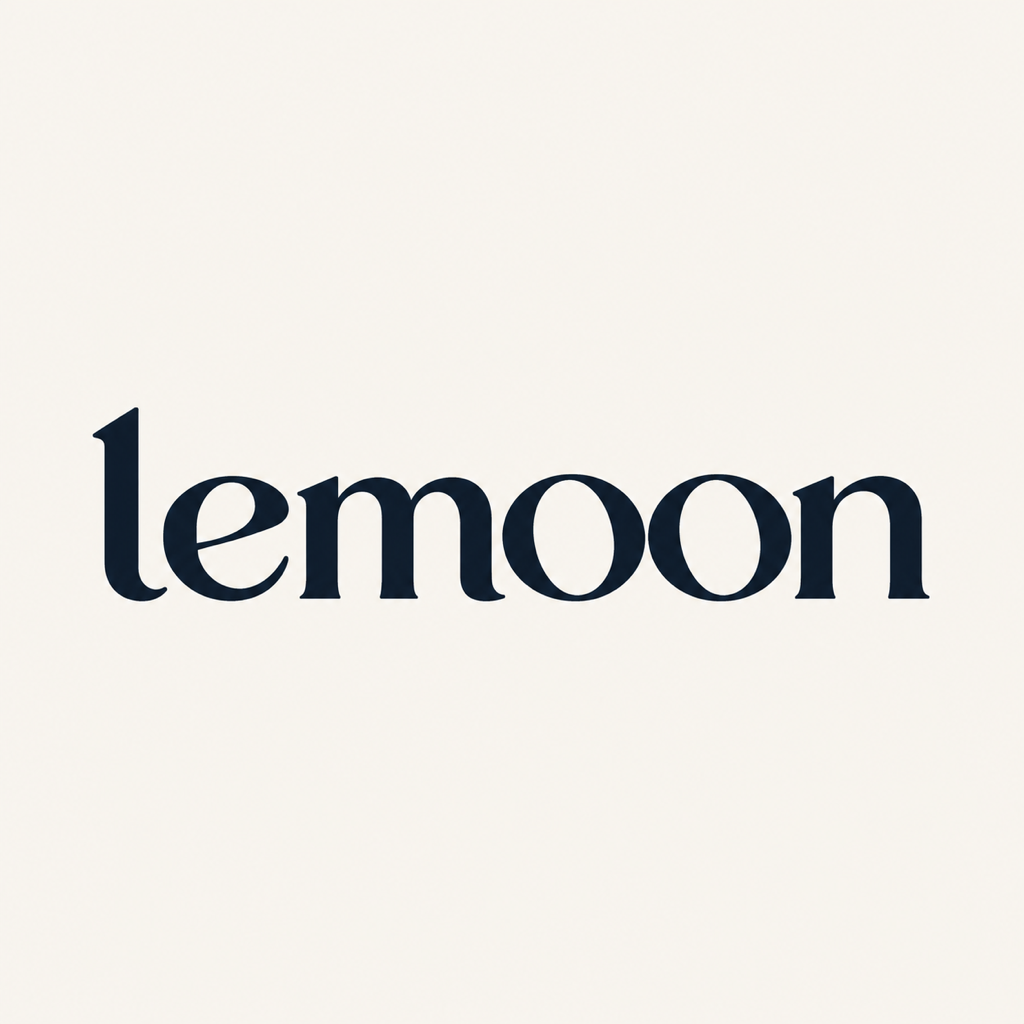
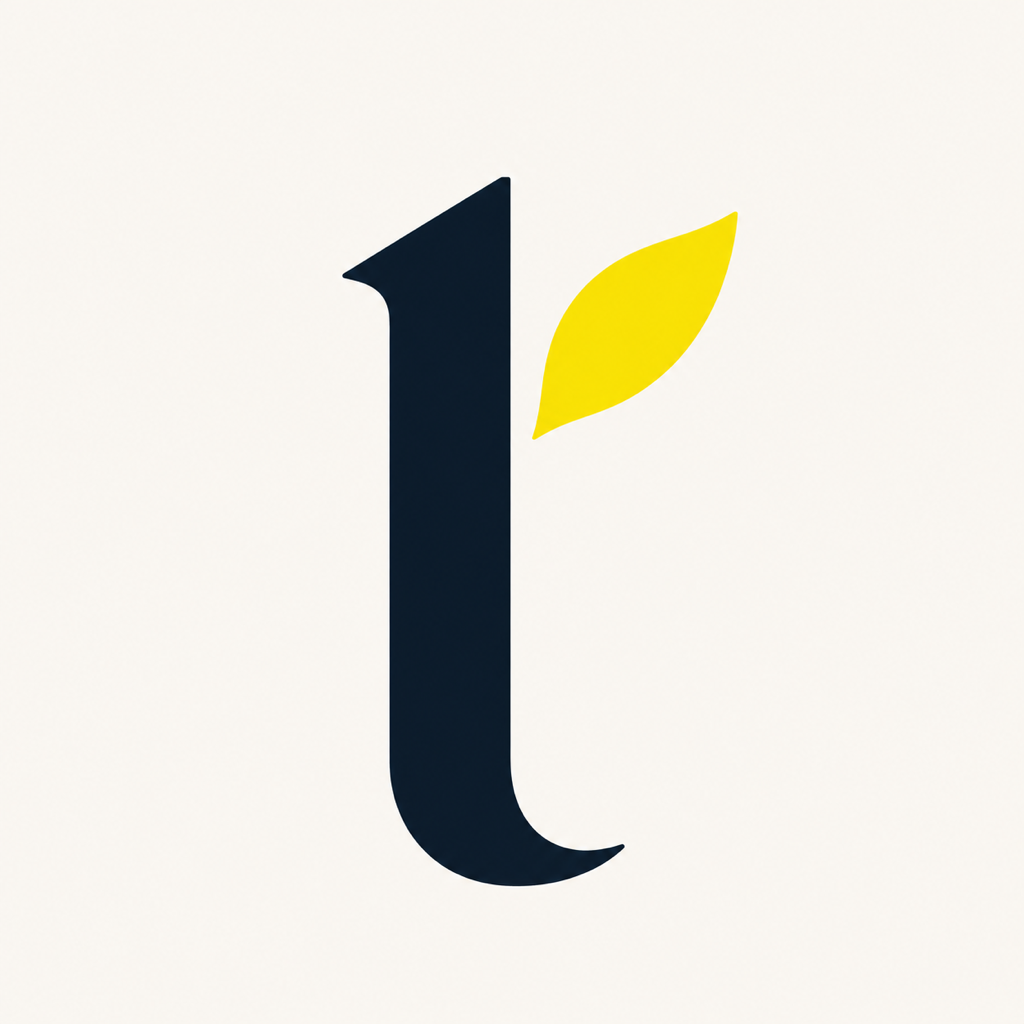
feat: use l and yellow leaf for social profile images

Changed region(s): [[0.0938, 0.1562, 0.9062, 0.875], [0.6875, 0.4375, 0.7188, 0.4688]]

diff --git a/docs/design/assets/lem-97/README.md b/docs/design/assets/lem-97/README.md
@@ -12,8 +12,8 @@ Las miniaturas enlazan los archivos optimizados de `assets/`. Los bytes correspo
 | H02-S · Sol<br><img src="../../../../assets/lemoon-category-sol-generic-v1.jpg" width="240" alt="Lentes de sol carey y azul sobre una superficie clara."> | [lemoon-category-sol-generic-v1.jpg](../../../../assets/lemoon-category-sol-generic-v1.jpg) | 1402×1122 | 312,799 | Lentes de sol carey y azul sobre una superficie clara. |
 | H02-A · Accesorios<br><img src="../../../../assets/lemoon-category-accesorios-generic-v1.jpg" width="240" alt="Estuche azul, paño beige y cordón para lentes."> | [lemoon-category-accesorios-generic-v1.jpg](../../../../assets/lemoon-category-accesorios-generic-v1.jpg) | 1402×1122 | 457,469 | Estuche azul, paño beige y cordón para lentes. |
 | G03 · OG<br><img src="../../../../assets/lemoon-og-default-v1.jpg" width="240" alt="Lemoon, con lentes ópticos y estuche sobre una superficie clara."> | [lemoon-og-default-v1.jpg](../../../../assets/lemoon-og-default-v1.jpg) | 1200×630 | 134,029 | Lemoon, con lentes ópticos y estuche sobre una superficie clara. |
-| X02 · Avatar 400<br><img src="../../../../assets/lemoon-avatar-social-400-v1.png" width="240" alt="Lemoon"> | [lemoon-avatar-social-400-v1.png](../../../../assets/lemoon-avatar-social-400-v1.png) | 400×400 | 149,198 | Lemoon |
-| X02 · Avatar 1024<br><img src="../../../../assets/lemoon-avatar-social-1024-v1.png" width="240" alt="Lemoon"> | [lemoon-avatar-social-1024-v1.png](../../../../assets/lemoon-avatar-social-1024-v1.png) | 1024×1024 | 789,988 | Lemoon |
+| X02 · Avatar 400<br><img src="../../../../assets/lemoon-avatar-social-400-v1.png" width="240" alt="Lemoon"> | [lemoon-avatar-social-400-v1.png](../../../../assets/lemoon-avatar-social-400-v1.png) | 400×400 | 135,908 | Lemoon |
+| X02 · Avatar 1024<br><img src="../../../../assets/lemoon-avatar-social-1024-v1.png" width="240" alt="Lemoon"> | [lemoon-avatar-social-1024-v1.png](../../../../assets/lemoon-avatar-social-1024-v1.png) | 1024×1024 | 739,369 | Lemoon |
 | G02 · Favicon 16<br><img src="../../../../assets/lemoon-favicon-16-v1.png" width="16" alt="Inicial de Lemoon con hoja amarilla"> | [lemoon-favicon-16-v1.png](../../../../assets/lemoon-favicon-16-v1.png) | 16×16 | 495 | Inicial de Lemoon con hoja amarilla |
 | G02 · Favicon 32<br><img src="../../../../assets/lemoon-favicon-32-v1.png" width="32" alt="Inicial de Lemoon con hoja amarilla"> | [lemoon-favicon-32-v1.png](../../../../assets/lemoon-favicon-32-v1.png) | 32×32 | 869 | Inicial de Lemoon con hoja amarilla |
 | G02 · Favicon 48<br><img src="../../../../assets/lemoon-favicon-48-v1.png" width="48" alt="Inicial de Lemoon con hoja amarilla"> | [lemoon-favicon-48-v1.png](../../../../assets/lemoon-favicon-48-v1.png) | 48×48 | 1,377 | Inicial de Lemoon con hoja amarilla |
@@ -32,9 +32,9 @@ Miguel aprobó el refinamiento **l + hoja amarilla sólida** el 30 de octubre de
 
 ## Fuentes y límites
 
-[Registro de generación y prompts](generation.json): motor built-in `image_gen`; prompt de ópticos normalizado, restantes verbatim. Masters seleccionados: [ópticos](sources/category-opticos.png), [sol](sources/category-sol.png), [accesorios](sources/category-accesorios.png), [OG](sources/og-final.png), [avatar](sources/avatar-final.png), [favicon](sources/favicon-final.png). Los masters de categorías, OG y avatar se conservaron sin cambios. El master de favicon se sustituyó por el refinamiento l + hoja aprobado; el registro no archiva todos los pasos o inputs intermedios.
+[Registro de generación y prompts](generation.json): motor built-in `image_gen`; prompt de ópticos normalizado y prompts de generación restantes verbatim; el avatar registra su derivación directa del master de favicon, sin generación nueva. Masters seleccionados: [ópticos](sources/category-opticos.png), [sol](sources/category-sol.png), [accesorios](sources/category-accesorios.png), [OG](sources/og-final.png), [avatar](sources/avatar-final.png), [favicon](sources/favicon-final.png). Los masters de categorías y OG se conservaron sin cambios. Favicon y avatar comparten el master l + hoja aprobado; el registro no archiva todos los pasos o inputs intermedios.
 
-Referencia de identidad aportada a la generación: [logo oficial](../../../../assets/lemoon-logo-refined-navy.svg), registrado como `assets/lemoon-logo-refined-navy.svg`. Avatar y OG muestran el wordmark completo; favicon y Apple usan la primera letra acompañada de una hoja amarilla sólida. Las generaciones raster pueden aproximar formas y colores: no se certifican trazados idénticos al SVG ni color exacto. Los prompts describen intención, no mediciones del resultado. El SVG del header no se modificó.
+Referencia de identidad aportada a la generación: [logo oficial](../../../../assets/lemoon-logo-refined-navy.svg), registrado como `assets/lemoon-logo-refined-navy.svg`. OG muestra el wordmark completo; avatar, favicon y Apple usan la primera letra acompañada de una hoja amarilla sólida. Las generaciones raster pueden aproximar formas y colores: no se certifican trazados idénticos al SVG ni color exacto. Los prompts describen intención, no mediciones del resultado. El SVG del header no se modificó.
 
 Las categorías conservan las dimensiones nativas 1402×1122. OG se entrega a 1200×630 desde un master 1731×909, con ajuste mínimo de proporción. Avatar y favicon parten de masters cuadrados 1254×1254. No hay versiones transparentes en este paquete.
 

diff --git a/docs/design/asset-inventory.md b/docs/design/asset-inventory.md
@@ -39,7 +39,7 @@ Cada fila define estado, export, alt y destino. Las matrices de superficies y co
 | A04 · prelanzamiento | Opcional: reutilizar editorial autorizada H01/H02 con export `lemoon-prelanzamiento.jpg`; SVG inline actual evita una entrega obligatoria | JPG 960px ancho como requisito de entrega; alto auto, contenedor con padding y min-height 400/320/220px según ancho; una fuente, CDN 480/960 | Alt del archivo. Contraseña → `lemoon-launch-page.image`; no cargar en `legacy_banner` deshabilitado |
 | A05 · gift card | Existente: tarjeta de compra compuesta en HTML/CSS con G01; emitida usa G01, QR nativo y recurso de Apple Wallet de Shopify. No diseño nuevo requerido | Compra: ratio CSS 1.6, ancho máximo 400px; logo 120px. Emitida no usa un ajuste de imagen propio de esta sección. Sin export móvil | Conservar labels y texto de importe/código; no ponerlos en imagen. Ver `lemoon-gift-card-purchase` y `templates/gift_card.liquid`; media del producto, si se requiere para catálogo, se administra en producto con LEM-9 |
 | X01 · adaptaciones logo para nativos/email | Faltan exports identificados: derivar G01 sin redibujar, `lemoon-logo-email.png`, `lemoon-logo-nativo.png`; LEM-78 produce | PNG transparente, conservar proporción; requisito de entrega: ancho 824px (alto proporcional ~194), verificar tamaño visual en editor nativo. Sin pareja móvil | Nombre de marca cuando el editor lo permita. Checkout/cuentas: configuración nativa; email: Notificaciones. No usar `settings.logo` como prueba de esos destinos |
-| X02 · paquete fuera del tema | **Parcial generado localmente**: [Apple 180](../../assets/lemoon-apple-touch-icon-180-v1.png), avatares sociales [400](../../assets/lemoon-avatar-social-400-v1.png) y [1024](../../assets/lemoon-avatar-social-1024-v1.png). Avatar con wordmark completo; Apple con inicial. Pendientes LEM-78: adaptación WhatsApp si el canal la requiere, covers por plataforma y `lemoon-email-header.jpg` | PNG opaco: Apple 180×180; avatar 400×400 y 1024×1024 con margen para círculo, sin letras cortadas en inspección local. Covers/header: dimensionar según canal/plantilla real antes de exportar; sin dimensiones supuestas | Avatar: Lemoon. Sin slot Apple touch ni covers sociales en tema. Cargar tras aprobación en plataforma correspondiente; header email exige plantilla definida por LEM-139. Ningún canal configurado por esta entrega |
+| X02 · paquete fuera del tema | **Parcial generado localmente**: [Apple 180](../../assets/lemoon-apple-touch-icon-180-v1.png), avatares sociales [400](../../assets/lemoon-avatar-social-400-v1.png) y [1024](../../assets/lemoon-avatar-social-1024-v1.png). Avatar y Apple con inicial navy y hoja amarilla sólida. Pendientes LEM-78: adaptación WhatsApp si el canal la requiere, covers por plataforma y `lemoon-email-header.jpg` | PNG opaco: Apple 180×180; avatar 400×400 y 1024×1024 con margen para círculo, sin letras cortadas en inspección local. Covers/header: dimensionar según canal/plantilla real antes de exportar; sin dimensiones supuestas | Avatar: Lemoon. Sin slot Apple touch ni covers sociales en tema. Cargar tras aprobación en plataforma correspondiente; header email exige plantilla definida por LEM-139. Ningún canal configurado por esta entrega |
 
 ## Configuración global y límites de integración
 
